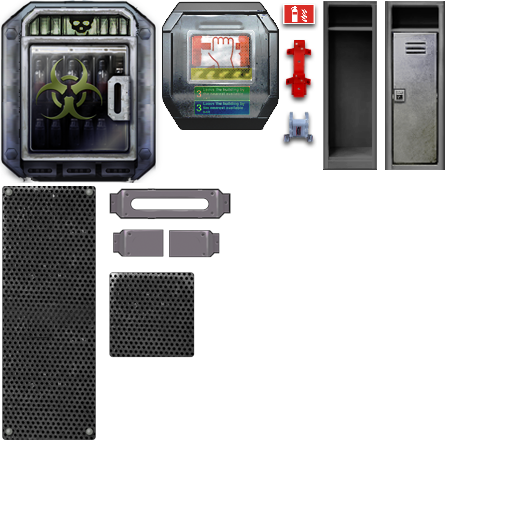
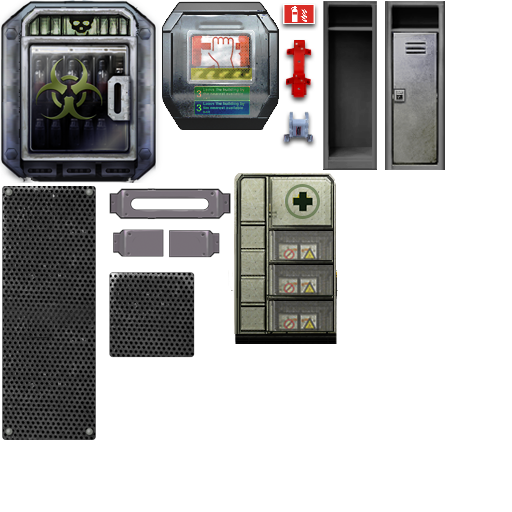
Coilgun ammo shelf, new medicine cabinet sprite, exposed ItemContainer ItemPos & itemInterval to sub editor in debug builds (Not sure if it should also be visible in release build? It's something that should only be needed when configuring a new item, but never used by submarine creators)

Changed region(s): [[0.4375, 0.3125, 0.6562, 0.6875]]

diff --git a/Barotrauma/BarotraumaClient/Source/Items/Components/ItemContainer.cs b/Barotrauma/BarotraumaClient/Source/Items/Components/ItemContainer.cs
@@ -32,9 +32,18 @@ namespace Barotrauma.Items.Components
             private set;
         }
 
+#if DEBUG
+        [Serialize("0.0,0.0", false), Editable]
+#else
         [Serialize("0.0,0.0", false)]
+#endif
         public Vector2 ItemPos { get; set; }
+
+#if DEBUG
+        [Serialize("0.0,0.0", false), Editable]
+#else
         [Serialize("0.0,0.0", false)]
+#endif
         public Vector2 ItemInterval { get; set; }
         [Serialize(100, false)]
         public int ItemsPerRow { get; set; }
